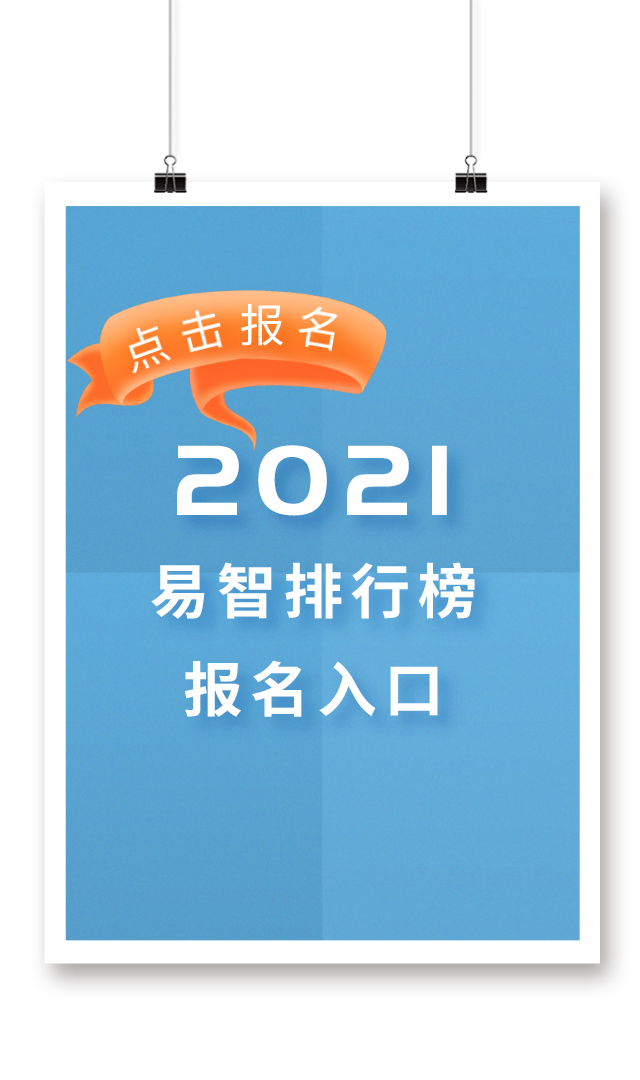
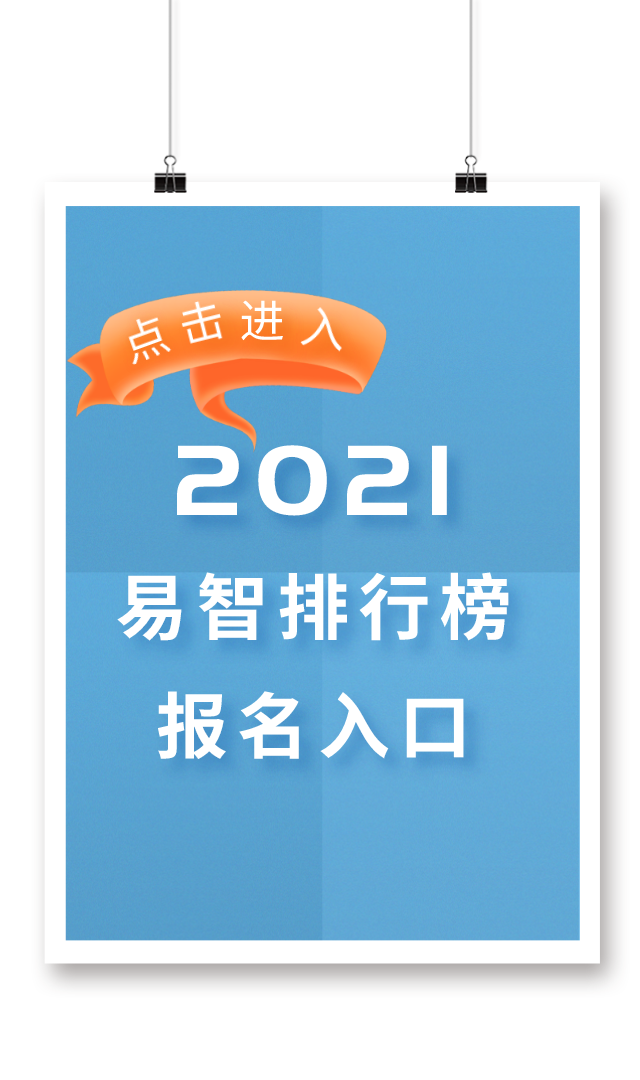
易智排行榜

diff --git a/kj01/style/js/organizationFrom.js b/kj01/style/js/organizationFrom.js
@@ -60,7 +60,7 @@ require(['/common/js/require.config.js'], function () {
                             localFinance: '',//	地方财政
                             selfFinance: '',//	单位自筹
                             otherIncome: '',//	其他收入
-                            isAgree: 0,//是否同意签署（0 未同意 1 同意）
+                            isAgree:0,//是否同意签署（0 未同意 1 同意）
                             caseSituation: '',//	案例情况
                             organization: '',//	组织情况
                             excellentContract: [{id:'',contractName:'',contractAmount:'',contractNumber:'', contractTurnover:'',}],//技术合同完成情况
@@ -152,19 +152,19 @@ require(['/common/js/require.config.js'], function () {
                                 // {pattern: /^((0\d{2,3}\d{7,8})|(1\d{10}))$/, message: '请填写正确的电话号码'}
                             ],
 
-                            qq: [
-                                {required: true, validator: (rule, value, callback) => {
-                                        if(!value){
-                                            callback(new Error('请输入QQ号'));
-                                        }
-                                        else if (!/[1-9][0-9]{4,12}/.test(value)) {
-                                            callback(new Error('请填写正确的QQ号'));
-                                        } else {
-                                            callback();
-                                        }
-                                    },trigger: 'blur'},
-                                // {pattern:  /[1-9][0-9]{4,12}/, message: '请填写正确的QQ号'}
-                            ],
+                            // qq: [
+                            //     {required: true, validator: (rule, value, callback) => {
+                            //             if(!value){
+                            //                 callback(new Error('请输入QQ号'));
+                            //             }
+                            //             else if (!/[1-9][0-9]{4,12}/.test(value)) {
+                            //                 callback(new Error('请填写正确的QQ号'));
+                            //             } else {
+                            //                 callback();
+                            //             }
+                            //         },trigger: 'blur'},
+                            //     // {pattern:  /[1-9][0-9]{4,12}/, message: '请填写正确的QQ号'}
+                            // ],
                             address: [
                                 {required: true, message: '请输入通讯地址',trigger: 'blur'},
                             ],
@@ -333,7 +333,7 @@ require(['/common/js/require.config.js'], function () {
                             }
                             if (res.code == 'rest.success' && res.result) {
                                 this.formData = res.result
-                                if (this.formData.isAgree == 1) {
+                                if (this.formData.isAgree ==1) {
                                     this.delFlag=1
                                     this.isActive = true;
                                 } else {
@@ -391,7 +391,6 @@ require(['/common/js/require.config.js'], function () {
                                                this.sum = 1
                                                console.log(valid, 'valid')
                                                if (valid) {
-                                                   // this.formData.isAgree = 1
                                                    indexApi.organSubmit(this.formData).then((res) => {
                                                        if (res.code == 'rest.success') {
                                                            this.$notify.success({

diff --git a/kj01/notice.html b/kj01/notice.html
@@ -107,7 +107,7 @@
                 <p>(四)名单公示（1月17日-1月24日） 对评审会产生的拟评选的优秀技术经纪人和优秀技术转移机构进行全媒体公示，并广泛接受相关部门及社会大众的监督。</p>
                 <p>(五)评选盛典（时间待定） 举办评选盛典，邀请知名科学家、有关政府部门领导共同参与。</p>
                 <h4>五、报名咨询</h4>
-                <p>报名方法：登录易智网（www.kj01.cn），进入“2021易智排行榜”进行报名和相关信息填报，并将相关资料及扫描件发送至邮箱：cteezhuanyi@outlook.com。</p>
+                <p>报名方法：登录易智网（www.kj01.cn）点击下方按钮进入相应的报名入口</p>
                 <p>咨询电话：18002306195</p>
                 <div class="btn">
                     <a href="organizationFrom.html">2021重庆优秀技术转移机构报名入口</a>

diff --git a/kj01/organizationFrom.html b/kj01/organizationFrom.html
@@ -404,7 +404,8 @@
             <fieldset class="form__group">
                 <legend>七、承诺</legend>
                 <el-form-item label="本人保证上述填报内容及所提供的附件材料真实、完整、无误，如有不实，本人承担由此引起的一切责任。"  class="el-text">
-                    <el-radio :label="1" v-model="formData.isAgree"  border >同意</el-radio>
+<!--                    <el-radio :label="1" v-model="formData.isAgree" @change="checkRadio(i)" border>同意</el-radio>-->
+                    <el-checkbox  v-model='formData.isAgree' true-label=1 false-label=0 border>同意</el-checkbox>
                     <p style="color: red;display: inline-block">*选择同意后才能提交报名</p>
                 </el-form-item>
             </fieldset>

diff --git a/kj01/applicationFrom.html b/kj01/applicationFrom.html
@@ -245,7 +245,7 @@
             <fieldset class="form__group">
                 <legend>六、承诺</legend>
                 <el-form-item label="本人保证上述填报内容及所提供的附件材料真实、完整、无误，如有不实，本人承担由此引起的一切责任。" prop="isAgree" class="el-text">
-                    <el-radio :label="1" v-model="formData.isAgree"  border >同意</el-radio>
+                    <el-checkbox  v-model='formData.isAgree' true-label=1 false-label=0 border>同意</el-checkbox>
                     <p style="color: red;display: inline-block">*选择同意后才能提交报名</p>
                 </el-form-item>
             </fieldset>

diff --git a/kj01/index.html b/kj01/index.html
@@ -88,7 +88,8 @@
         position: fixed;
         z-index: 99;
         top:0;
-        width: calc((100% - 1440px) / 3);
+        /*width: calc((100% - 1440px) / 2);*/
+        width: 250px;
     }
     @keyframes fadelogIn {
         0% {
